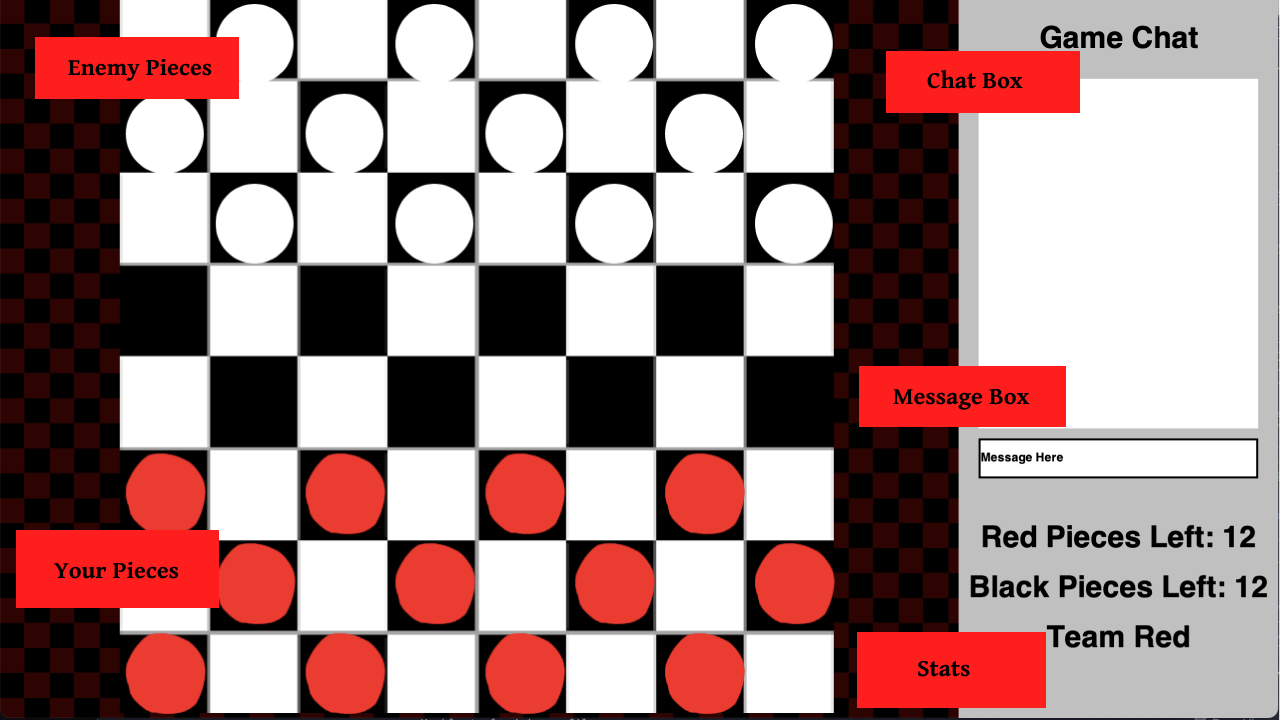
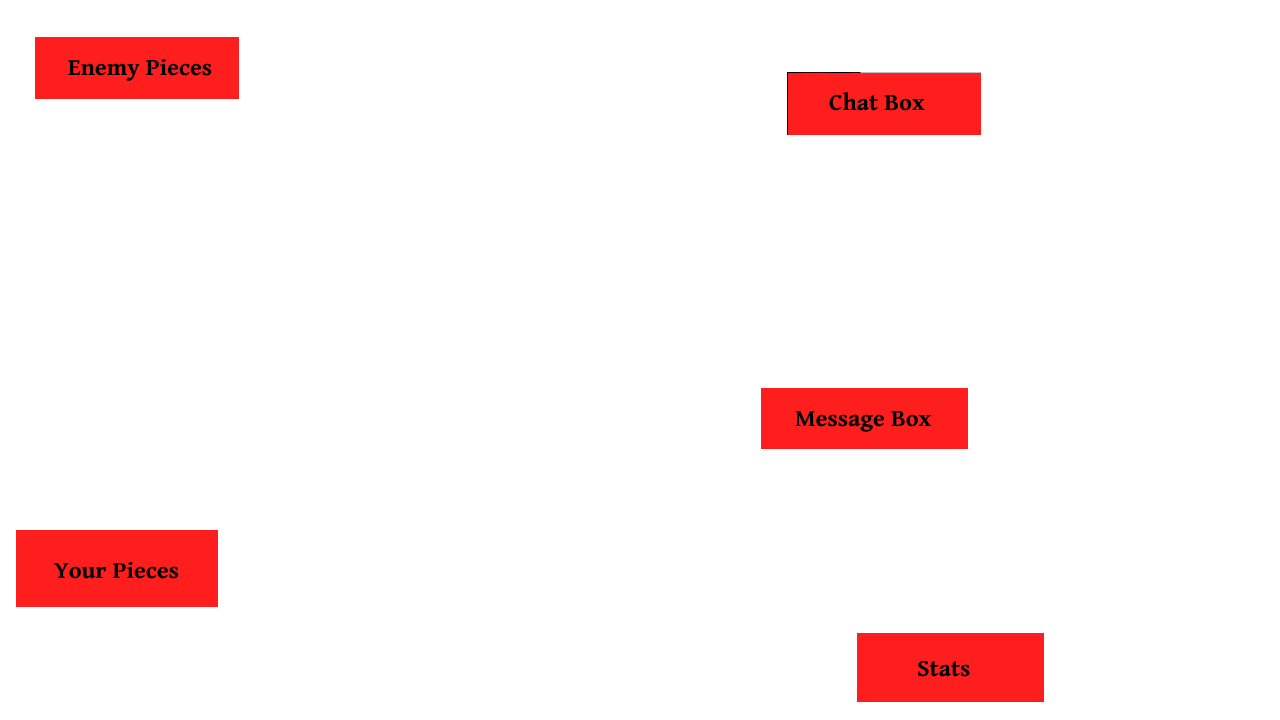
Updated Help Screen

diff --git a/View.java b/View.java
@@ -3,16 +3,17 @@ import Panels.*;
 import java.awt.event.*;
 import javax.swing.*;
 
-// main class
+
 /**
  * The View class implements ActionListener, MouseMotionListener, and MouseListener interfaces.
  * It represents the graphical user interface of the application and handles user interactions.
  */
 public class View implements ActionListener, MouseMotionListener, MouseListener {
 
-    // initializing objects
+    // Initializing objects
     Model theModel = new Model(this);
 
+    //Panels
     Assets programAssets = new Assets();
     MainScreen theMainScreen = new MainScreen();
     ServerLobby theServerLobby = new ServerLobby();
@@ -23,7 +24,7 @@ public class View implements ActionListener, MouseMotionListener, MouseListener 
     GameScreen theHelpScreen = new GameScreen();
     GameOver theGameOver = new GameOver();
 
-    // creating JFrame
+    // Creating JFrame
     JFrame theFrame = new JFrame("Checkers");
 
     /**
@@ -58,6 +59,7 @@ public class View implements ActionListener, MouseMotionListener, MouseListener 
             theModel.loadBoard();
             theModel.loadImages();
             theHelpScreen.strBoard = theModel.strBoard;
+            theHelpScreen.blnHelpScreen = true;
             theHelpScreen.repaint();
             theFrame.setContentPane(theHelpScreen);
         //Chat Field - Server Lobby
@@ -136,6 +138,7 @@ public class View implements ActionListener, MouseMotionListener, MouseListener 
         //Chat Field - Help Screen
         } else if(e.getSource() == theHelpScreen.theChatField){
             theHelpScreen.theChatArea.append("Player: " + theHelpScreen.theChatField.getText() + "\n");
+            theHelpScreen.theChatField.setText("");
         //Socket Listener
         }else if (e.getSource() == theModel.theSocket) {
             //Gets the message from the socket

diff --git a/Panels/GameScreen.java b/Panels/GameScreen.java
@@ -40,6 +40,10 @@ public class GameScreen extends JPanel {
     /** Y position of the mouse */
     public int intMouseY = 765;
 
+    //Help Scren Variable
+    /** If the help screen is being displayed */
+    public boolean blnHelpScreen = false;
+
     /**
      * Paints the background image on the panel.
      */
@@ -80,6 +84,11 @@ public class GameScreen extends JPanel {
 
         //Draws the piece being dragged
         g.drawImage(programAssets.imgDragged, intMouseX - 45, intMouseY - 45, null);
+
+        //Draws the help screen if its the help screen
+        if(blnHelpScreen){
+            g.drawImage(programAssets.imgHelp, 0, 0, null);
+        }
     }
 
     public GameScreen() {
@@ -132,5 +141,7 @@ public class GameScreen extends JPanel {
         theTeam.setBounds(960, 620, 320, 40);
         theTeam.setHorizontalAlignment(SwingConstants.CENTER);
         this.add(theTeam);
+
+        this.repaint();
     }
 }

diff --git a/Panels/Assets.java b/Panels/Assets.java
@@ -44,7 +44,8 @@ public class Assets {
     BufferedImage img;
 
     //Images
-    BufferedImage imgBackground = this.loadImage("../Assets/Background.png");
+    BufferedImage imgBackground = this.loadImage("Assets/Background.png");
+    BufferedImage imgHelp = this.loadImage("Assets/Help.png");
     /** Game Board */
     public static BufferedImage imgBoard = null;
     /** Red Checker */
